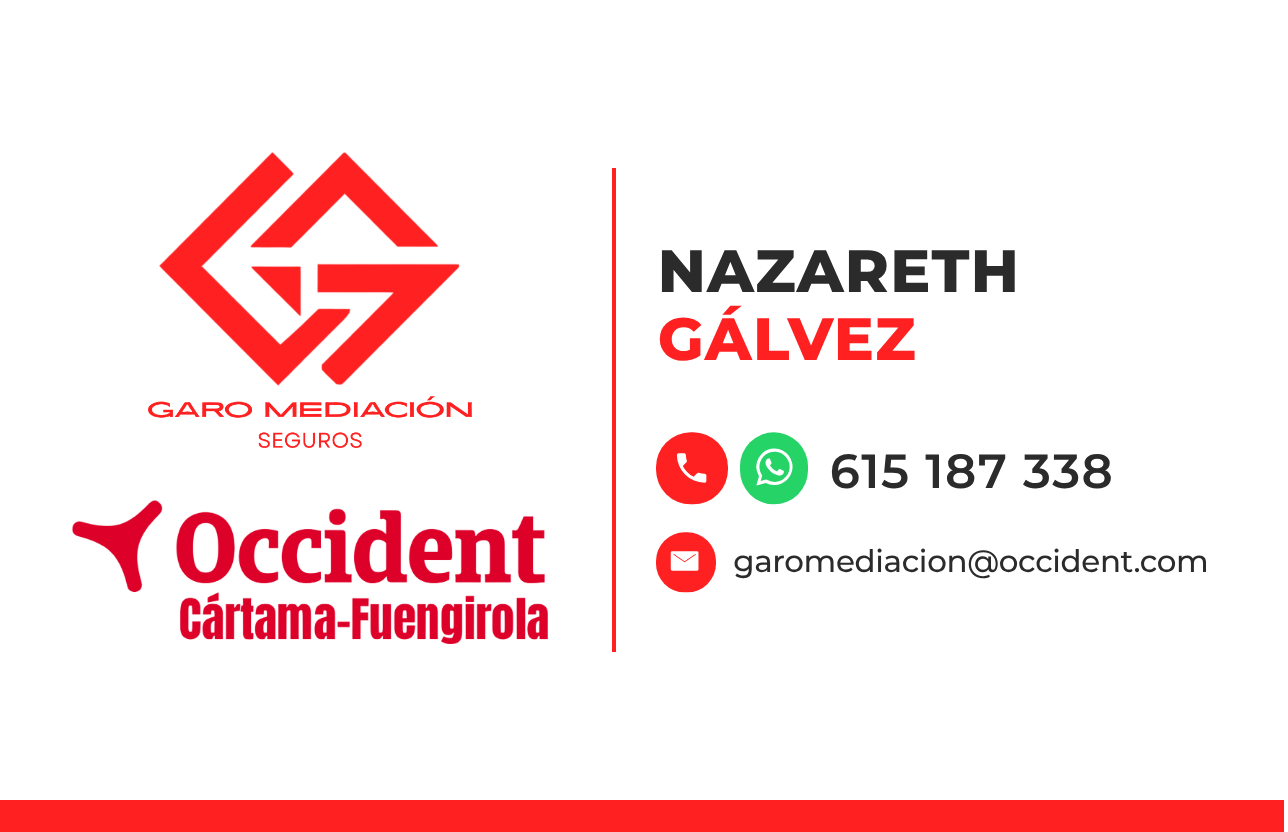
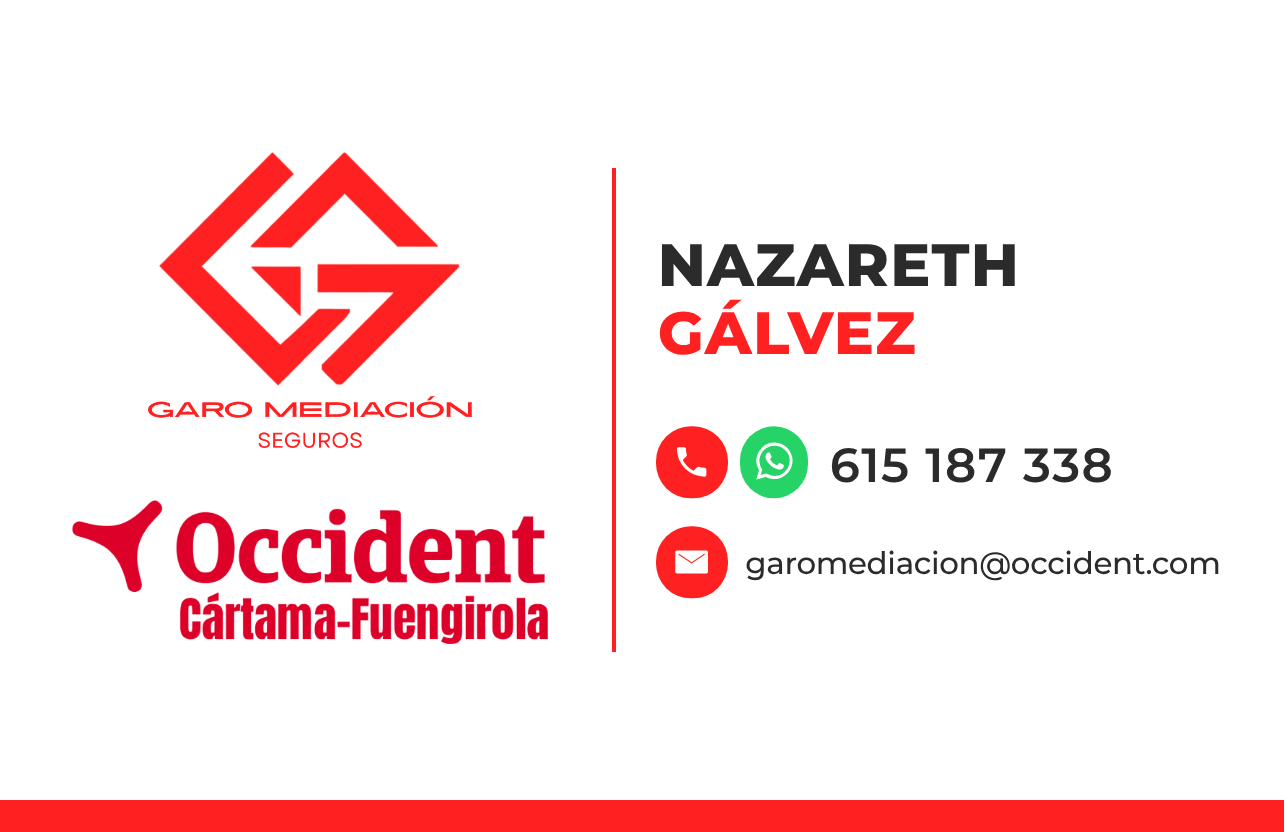
Anverso: icono del correo al mismo tamaño que el del teléfono
Claude-Session: https://claude.ai/code/session_015WUNb4yre91nmkt9usvexw

Changed region(s): [[0.4969, 0.5, 0.9627, 0.7188], [0.4969, 0.2812, 0.7764, 0.4375]]

diff --git a/tarjeta-visita/tarjeta.html b/tarjeta-visita/tarjeta.html
@@ -62,8 +62,6 @@
     margin-top: 2mm;
     font-weight: 500; font-size: 5.8pt; letter-spacing: -0.01em; gap: 1.2mm;
   }
-  .front .mail .icon { width: 3.8mm; height: 3.8mm; }
-  .front .mail .icon svg { width: 2.2mm; height: 2.2mm; }
   .front .phone .icon + .icon { margin-left: -0.6mm; }
   .icon.wa { background: #25d366; }
   .icon.wa svg { width: 3mm; height: 3mm; }
